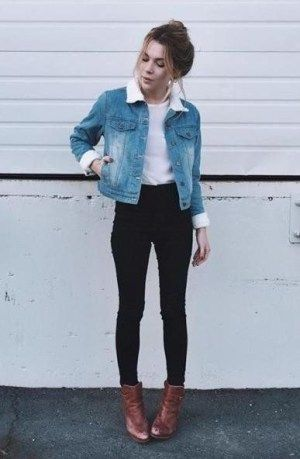
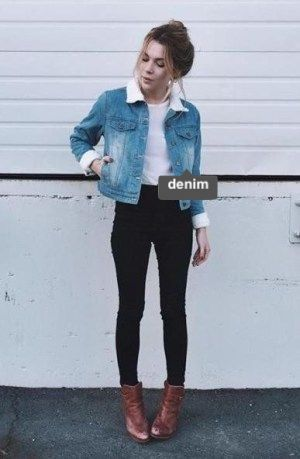
added some featutes

Changed region(s): [[0.51, 0.366, 0.75, 0.4575]]

diff --git a/templates/list.html b/templates/list.html
@@ -29,6 +29,46 @@
     <div class="wrapper">
 
         <div class="left-col">
+            <div class="post">
+                <div class="info">
+                    <div class="user">
+                        <div class="profile-pic"><img src="../static/img/cover7.png" alt=""></div>
+                        <p class="username">modern_web_channel</p>
+                    </div>
+                    <img src="../static/img/option.PNG" class="options" alt="">
+                </div>
+                <img src="../static/img/denimquery1.jpeg" class="post-image" alt="">
+                <div class="post-content">
+                    <!-- <div class="reaction-wrapper">
+                        <img src="../static/img/like.PNG" class="icon" alt="">
+                        <img src="../static/img/comment.PNG" class="icon" alt="">
+                        <img src="../static/img/send.PNG" class="icon" alt="">
+                        <form action="/rent" method="POST" class="icon">
+                            <input type="hidden" name="param" value="cost">
+                            <input type="image" src="../static/img/coown.png" class="icon">
+                        </form>
+                        <img src="../static/img/save.PNG" class="save icon" alt="">
+                    </div> -->
+                    <p class="garment-cost">Rs 300</p>
+                    <p class="garment-type">Denim</p>
+                    <button class="button-figma">Co-own now!</button>
+                    <!-- <p class="description"><span>username </span> Lorem ipsum dolor sit amet consectetur, adipisicing elit. Pariatur tenetur veritatis placeat, molestiae impedit aut provident eum quo natus molestias?</p>
+                    <p class="post-time">2 minutes ago</p> -->
+                </div>
+                <div>
+                    <!-- <img src="../static/img/smile.PNG" class="icon" alt="">
+                    <input type="text" class="comment-box" placeholder="Add a comment">
+                    <button class="comment-btn">post</button> -->
+                    <p class="garment-description-top">Color Blue</p>
+                    <p class="garment-description-rest">Size S M</p>
+                    <p class="garment-description-rest">Regular Machine Wash</p>
+                    <p class="garment-description-rest">Solid Pattern</p>
+                    <p class="garment-description-rest">Denim Fabric</p>
+                </div>
+            </div>
+        </div>
+
+        <div class="right-col2">
             {% for packet in packets %}
             <div class="post">
                 <div class="info">
@@ -38,7 +78,7 @@
                     </div>
                     <img src="../static/img/option.PNG" class="options" alt="">
                 </div>
-                <img src="{{ packet['url'] }}" class="post-image" alt="">
+                <img src="{{ packet['url'] }}" class="post-image" alt="" style="cursor: pointer;">
                 <div class="post-content">
                     <!-- <div class="reaction-wrapper">
                         <img src="../static/img/like.PNG" class="icon" alt="">
@@ -52,15 +92,15 @@
                     </div> -->
                     <p class="garment-cost">Rs 300</p>
                     <p class="garment-type">{{packet['location']}}</p>
-                    <button class="button-figma">Co-own now!</button>
+                    <!-- <button class="button-figma">Co-own now!</button> -->
                     <!-- <p class="description"><span>username </span> Lorem ipsum dolor sit amet consectetur, adipisicing elit. Pariatur tenetur veritatis placeat, molestiae impedit aut provident eum quo natus molestias?</p>
                     <p class="post-time">2 minutes ago</p> -->
                 </div>
-                <div class="comment-wrapper">
-                    <!-- <img src="../static/img/smile.PNG" class="icon" alt="">
+                <!-- <div class="comment-wrapper">
+                    <img src="../static/img/smile.PNG" class="icon" alt="">
                     <input type="text" class="comment-box" placeholder="Add a comment">
-                    <button class="comment-btn">post</button> -->
-                </div>
+                    <button class="comment-btn">post</button>
+                </div> -->
             </div>
             {% endfor %}
         </div>

diff --git a/static/styles/insta.css b/static/styles/insta.css
@@ -252,6 +252,7 @@ body{
     border: none;
     outline: none;
     font-size: 14px;
+    margin-left: 60px;
 }
 
 .comment-btn,
@@ -410,4 +411,35 @@ ul.scrollable-images {
     margin-top: 2px;
     margin-left: 60px;
     font-size: 12px;
+}
+
+.left-col2{
+    display: flex;
+    flex-direction: column;
+    position: fixed;
+    top: 0;
+}
+
+.right-col2{
+    padding: 20px;
+    overflow-y: auto;
+    height: 600px;
+}
+
+.garment-description-top {
+    font-weight: bolder;
+    margin-top: 2px;
+    margin-left: 80px;
+    font-size: 12px;
+    color: gray;
+    margin-top: 20px;
+}
+
+.garment-description-rest {
+    font-weight: bolder;
+    margin-top: 2px;
+    margin-left: 80px;
+    font-size: 12px;
+    color: gray;
+    margin-top: 2px;
 }

diff --git a/templates/insta.html b/templates/insta.html
@@ -56,7 +56,9 @@
                     </div>
                     <img src="../static/img/option.PNG" class="options" alt="">
                 </div>
-                <img src="../static/img/denimquery1.jpeg" class="post-image" alt="">
+                <form action="/rent" method="POST" class="image">
+                    <input type="image" src="../static/img/denimquery1.jpeg" class="post-image" alt="">
+                </form>
                 <div class="post-content">
                     <div class="reaction-wrapper">
                         <img src="../static/img/like.PNG" class="icon" alt="">

diff --git a/server.py b/server.py
@@ -78,8 +78,8 @@ def getScores(img_url=None, img_path=None):
 
 @app.route('/rent', methods=['POST'])
 def rent():
-    path = request.form.get('path')
-    print(f'rent request on {path}')
+    # path = request.form.get('path')
+    # print(f'rent request on {path}')
     sleep(1)
     #getScores(img_path=path)
     packets = []
